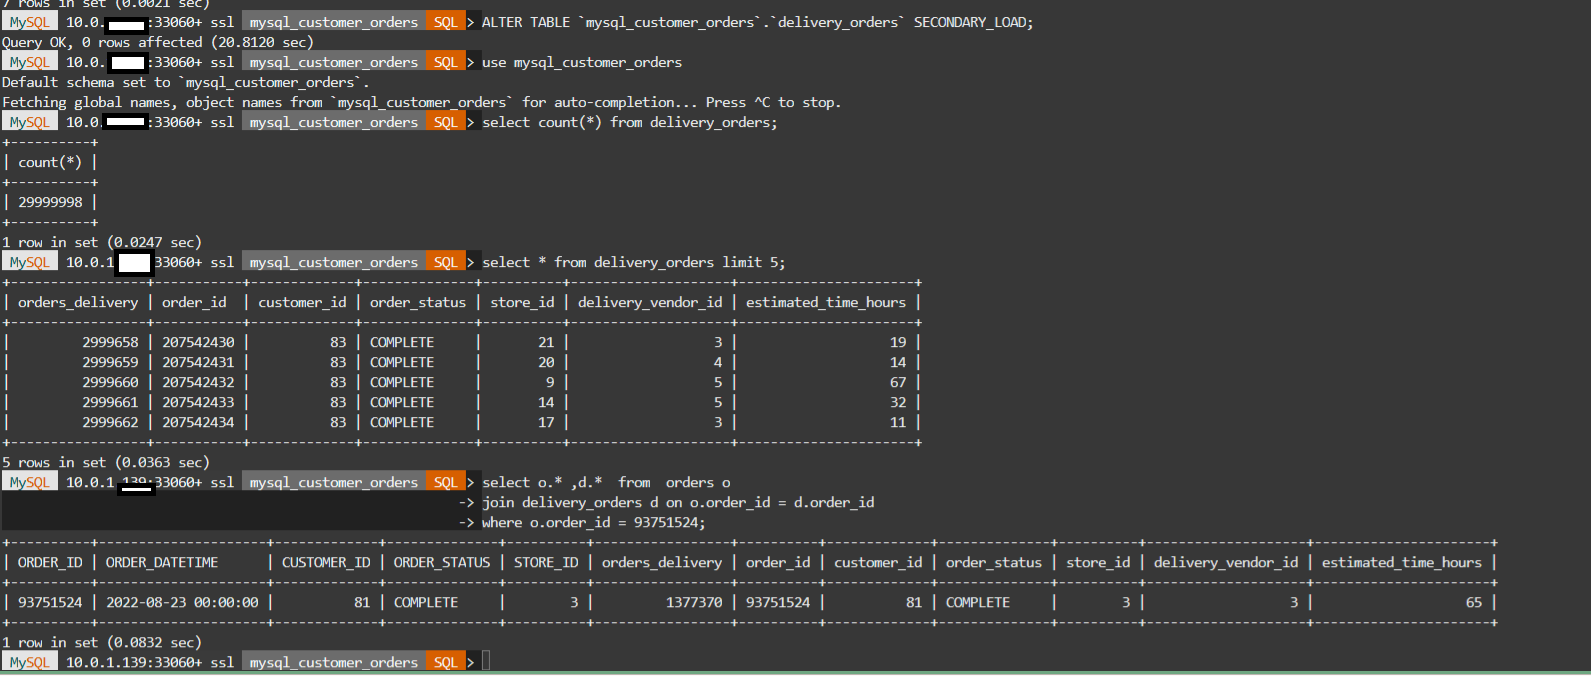
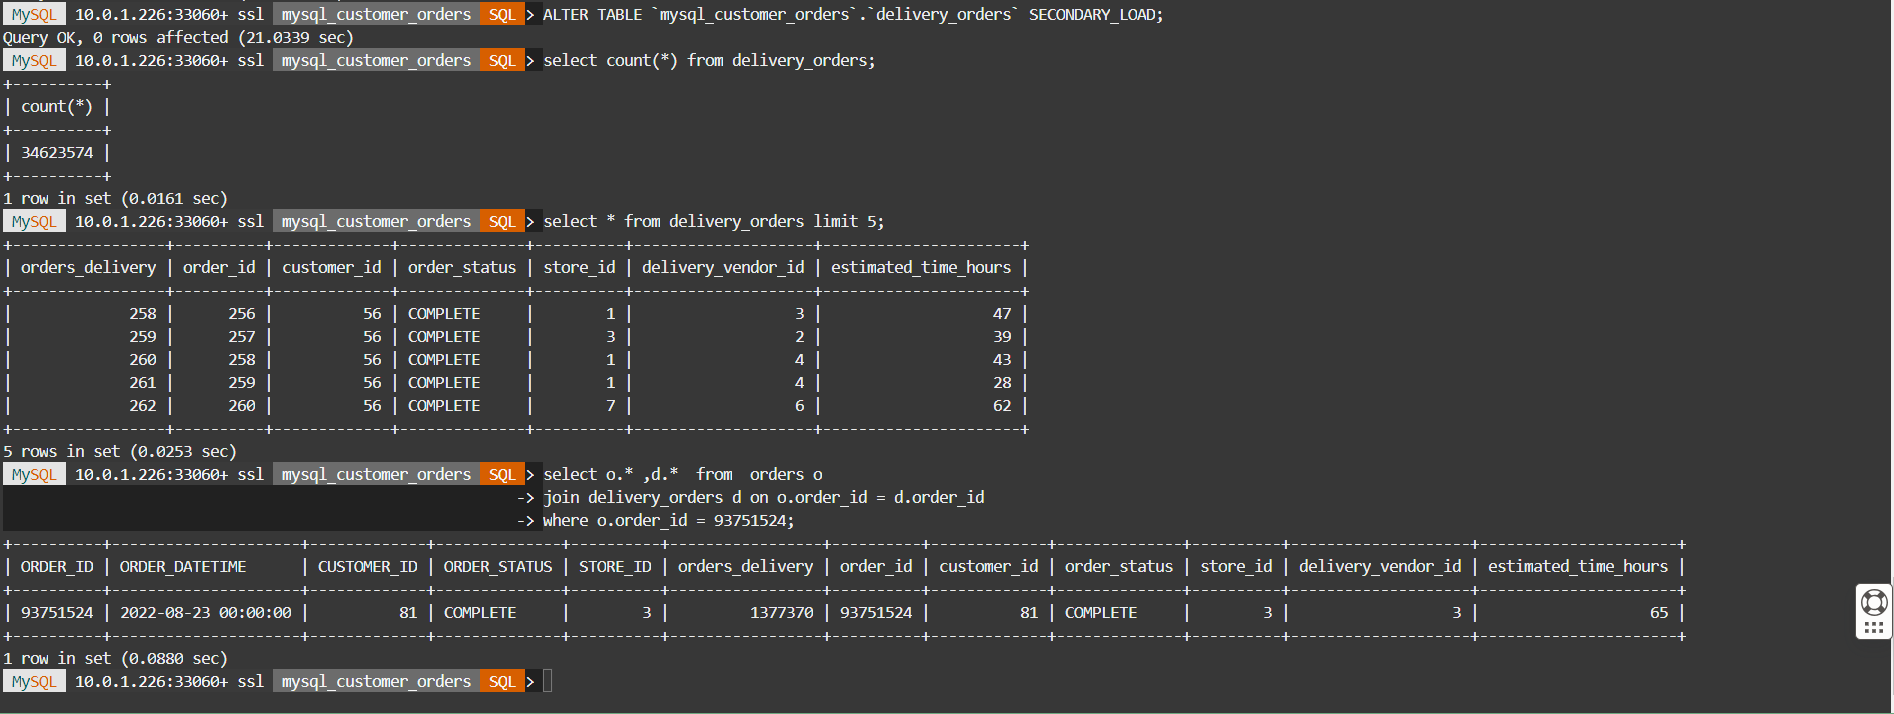
updated
updated

diff --git a/workshops/freetier/index.html b/workshops/freetier/index.html
@@ -8,12 +8,12 @@
     <meta name="description" content="Oracle LiveLabs gives you access to Oracle's products to run a wide variety of labs and workshops; allowing you to experience our best technology, live!">
     <title>Oracle LiveLabs</title>
 
-    <script src="https://oracle.github.io/learning-library/common/redwood-hol/js/jquery-1.11.0.min.js"></script>
-    <script src="https://oracle.github.io/learning-library/common/redwood-hol/js/jquery-ui-1.10.4.custom.js"></script>
-    <script src="https://oracle.github.io/learning-library/common/redwood-hol/js/main.min.js"></script>
+    <script src="https://oracle-livelabs.github.io/common/redwood-hol/js/jquery-1.11.0.min.js"></script>
+    <script src="https://oracle-livelabs.github.io/common/redwood-hol/js/jquery-ui-1.10.4.custom.js"></script>
+    <script src="https://oracle-livelabs.github.io/common/redwood-hol/js/main.min.js"></script>
 
-    <link rel="stylesheet" href="https://oracle.github.io/learning-library/common/redwood-hol/css/style.min.css" />
-    <link rel="shortcut icon" href="https://oracle.github.io/learning-library/common/redwood-hol/img/favicon.ico" />
+    <link rel="stylesheet" href="https://oracle-livelabs.github.io/common/redwood-hol/css/style.min.css" />
+    <link rel="shortcut icon" href="https://oracle-livelabs.github.io/common/redwood-hol/img/favicon.ico" />
 </head>
 
 <body>
@@ -58,5 +58,4 @@
       </div>
     </footer>
 </body>
-
 </html>

diff --git a/workshops/ocw23-freetier/index.html b/workshops/ocw23-freetier/index.html
@@ -8,12 +8,12 @@
     <meta name="description" content="Oracle LiveLabs gives you access to Oracle's products to run a wide variety of labs and workshops; allowing you to experience our best technology, live!">
     <title>Oracle LiveLabs</title>
 
-    <script src="https://oracle.github.io/learning-library/common/redwood-hol/js/jquery-1.11.0.min.js"></script>
-    <script src="https://oracle.github.io/learning-library/common/redwood-hol/js/jquery-ui-1.10.4.custom.js"></script>
-    <script src="https://oracle.github.io/learning-library/common/redwood-hol/js/main.min.js"></script>
+    <script src="https://oracle-livelabs.github.io/common/redwood-hol/js/jquery-1.11.0.min.js"></script>
+    <script src="https://oracle-livelabs.github.io/common/redwood-hol/js/jquery-ui-1.10.4.custom.js"></script>
+    <script src="https://oracle-livelabs.github.io/common/redwood-hol/js/main.min.js"></script>
 
-    <link rel="stylesheet" href="https://oracle.github.io/learning-library/common/redwood-hol/css/style.min.css" />
-    <link rel="shortcut icon" href="https://oracle.github.io/learning-library/common/redwood-hol/img/favicon.ico" />
+    <link rel="stylesheet" href="https://oracle-livelabs.github.io/common/redwood-hol/css/style.min.css" />
+    <link rel="shortcut icon" href="https://oracle-livelabs.github.io/common/redwood-hol/img/favicon.ico" />
 </head>
 
 <body>
@@ -58,5 +58,4 @@
       </div>
     </footer>
 </body>
-
 </html>

diff --git a/load-csv-data/load-csv-data.md b/load-csv-data/load-csv-data.md
@@ -26,27 +26,28 @@ We will now load the DELIVERY_ORDERS table from the Object Store. This is a larg
 
 ## Task 1: Create the PAR Link for the "delivery_order" files
 
-1. To create a PAR URL
-    - Go to menu **Storage —> Buckets**
-     ![Bucket menu](./images/storage-bucket-menu.png "storage bucket menu")
+1. Create a PAR URL for all of the **order folder** objects with a prefix
 
-    - Select **lakehouse-files —> order**  folder.
-2. Select the first file —> **delivery-orders-1.csv** and click the three vertical dots.
-3. Click on **Create Pre-Authenticated Request**
+    - a. From your OCI console, navigate to your lakehouse-files bucket in OCI.
+    - b. Select the folder —> order and click the three vertical dots.
 
-    ![delivery-orders-1.csv 3 dots](./images/storage-create-par-orders.png "storage create par orders")
+        ![Select  folder](./images/storage-delivery-orders-folder.png "storage delivery order folder")
 
-4. The **Object** option will be pre-selected.
-5. Keep **Permit object reads** selected
-6. Kep the other options for **Access Type** unchanged.
-7. Click the **Create Pre-Authenticated Request** button.
+    - c. Click on ‘Create Pre-Authenticated Request’
+    - d. Click to select the ‘Objects with prefix’ option under ‘PreAuthentcated Request Target’.
+    - e. Leave the ‘Access Type’ option as-is: ‘Permit object reads on those with the specified prefix’.
+    - g. Click to select the ‘Enable Object Listing’ checkbox.
+    - h. Click the ‘Create Pre-Authenticated Request’ button.
 
-    ![Create PAR](./images/storage-create-par-orders-page.png "storage create par orders page")
+       ![Create Folder PAR](./images/storage-delivery-orders-folder-page.png "storage delivery order folder page")
 
-8. Click the **Copy** icon to copy the PAR URL.
-    ![Copy PAR](./images/storage-create-par-orders-page-copy.png "storage create par orders page copy")
+    - i. Click the ‘Copy’ icon to copy the PAR URL.
+    - j. Save the generated PAR URL; you will need it later.
+    - k. You can test the URL out by pasting it in your browser. It should return output like this:
 
-9. Save the generated PAR URL; you will need it in the next task
+        ![List folder file](./images/storage-delivery-orders-folder-list.png "storage delivery order folder list")
+
+2. Save the generated PAR URL; you will need it in the next task
 
 ## Task 2: Connect to your MySQL HeatWave system using Cloud Shell
 
@@ -92,7 +93,7 @@ We will now load the DELIVERY_ORDERS table from the Object Store. This is a larg
 
 ## Task 3: Run Autoload to infer the schema and estimate capacity required for the DELIVERY table in the Object Store
 
-1. Part of the DELIVERY information for orders is contained in the delivery-orders-1.csv file in object store for which we have created a PAR URL in the earlier task. In a later task, we will load the other files for the DELIVER_ORDERS table into MySQL HeatWave. Enter the following commands one by one and hit Enter.
+1. The DELIVERY information for orders is contained in the delivery-orders-*1*.csv files in object store for which we have created a PAR URL in the earlier task. Enter the following commands one by one and hit Enter.
 
 2. This sets the schema we will load table data into. Don’t worry if this schema has not been created. Autopilot will generate the commands for you to create this schema if it doesn’t exist.
 
@@ -107,14 +108,16 @@ We will now load the DELIVERY_ORDERS table from the Object Store. This is a larg
     "db_name": "mysql_customer_orders",
     "tables": [{
         "table_name": "delivery_orders",
-        "dialect": 
-           {
-           "format": "csv",
-           "field_delimiter": "\\t",
-           "record_delimiter": "\\n"
-           },
-        "file": [{"par": "(PAR URL)"}]
-    }] }]';</copy>
+        "dialect": {
+            "format": "csv",
+            "field_delimiter": "\\t",
+            "record_delimiter": "\\r\\n",
+            "has_header": true,
+            "is_strict_mode": false},
+            "file": [{"par": "(PAR URL)"}]
+        }
+    ]}
+    ]';</copy>
     ```
 
     - It should look like the following example (Be sure to include the PAR Link inside at of quotes("")):
@@ -124,7 +127,7 @@ We will now load the DELIVERY_ORDERS table from the Object Store. This is a larg
 4. This command populates all the options needed by Autoload:
 
     ```bash
-    <copy>SET @options = JSON_OBJECT('mode', 'dryrun',  'policy', 'disable_unsupported_columns',  'external_tables', CAST(@dl_tables AS JSON));</copy>
+    <copy>SET @options = JSON_OBJECT('mode', 'dryrun', 'policy', 'disable_unsupported_columns', 'external_tables', CAST(@dl_tables AS JSON));</copy>
     ```
 
 5. Run this Autoload command:
@@ -147,7 +150,7 @@ We will now load the DELIVERY_ORDERS table from the Object Store. This is a larg
 
     ![Dryrun script](./images/load-script-dryrun.png "load script dryrun")
 
-8. The execution result conatins the SQL statements needed to create the table and then load this table data from the Object Store into HeatWave.
+8. The execution result contains the SQL statements needed to create the table and then load this table data from the Object Store into HeatWave.
 
     ![Create Table](./images/create-delivery-order.png "create delivery order")
 
@@ -155,23 +158,9 @@ We will now load the DELIVERY_ORDERS table from the Object Store. This is a larg
 
     ![autopilot create table with no field name](./images/create-table-no-fieldname.png "autopilot create table with no field name")
 
-10. Modify the **CREATE TABLE** command to replace the generic column names, such as **col\_1**, with descriptive column names. Use the following values:
+10. Execute the **CREATE TABLE** command to create the delivery_orders table.
 
-    - `col_1 : orders_delivery`
-    - `col_2 : order_id`
-    - `col_3 : customer_id`
-    - `col_4 : order_status`
-    - `col_5 : store_id`
-    - `col_6 : delivery_vendor_id`
-    - `col_7 : estimated_time_hours`
-
-11. Your modified **CREATE TABLE** command  should look like the following example:
-
-    ![autopilot create table with field name](./images/create-table-fieldname.png "autopilot create table with field name")
-
-12. Execute the modified **CREATE TABLE** command to create the delivery_orders table.
-
-13. The create command and result should look lie this
+11. The create command and result should look lie this
 
     ![Delivery Table create](./images/create-delivery-table.png "create delivery table")
 
@@ -191,25 +180,21 @@ We will now load the DELIVERY_ORDERS table from the Object Store. This is a larg
     <copy> ALTER TABLE `mysql_customer_orders`.`delivery_orders` SECONDARY_LOAD; </copy>
     ```
 
-3. Once Autoload completes,point to the schema
-
-    ```bash
-    <copy>use mysql_customer_orders</copy>
-    ```
-
-4. Check the number of rows loaded into the table.
+3. Check the number of rows loaded into the table.
 
     ```bash
     <copy>select count(*) from delivery_orders;</copy>
     ```
 
-5. View a sample of the data in the table.
+    The DELIVERY table has 34 million rows.
+
+4. View a sample of the data in the table.
 
     ```bash
     <copy>select * from delivery_orders limit 5;</copy>
     ```
 
-    a. Join the delivery_orders table with other table in the schema
+5. Join the delivery_orders table with other table in the schema
 
     ```bash
     <copy> select o.* ,d.*  from  orders o
@@ -217,76 +202,10 @@ We will now load the DELIVERY_ORDERS table from the Object Store. This is a larg
     where o.order_id = 93751524; </copy>
     ```
 
-6. Your output for steps 2 thru 5 should look like this:
-
+6. Output of steps 6 through 5
     ![Add data to table](./images/load-delivery-table.png "load delivery table")
 
-7. Your DELIVERY table is now ready to be used in queries with other tables. In the next lab, we will see how to load additional data for the DELIVERY table from the Object Store using different options.
-
-## Task 5:  Load all data for DELIVERY table from Object Store
-
-The DELIVERY table contains data loaded from one file so far. If new data arrives as more files, we can load those files too. The first option is by specifying a list of the files in the table definition. The second option is by specifying a prefix and have all files with that prefix be source files for the DELIVERY table. The third option is by specifying the entire folder in the Object Store to be the source file for the DELIVERY table.
-
-We will use the second option which Loads the data by specifying a PAR URL for all objects with a prefix.
-
-1. First unload the DELIVERY table from HeatWave:
-
-    ```bash
-    <copy>ALTER TABLE delivery_orders SECONDARY_UNLOAD;</copy>
-    ```
-
-2. Create a PAR URL for all objects with a prefix
-
-    - a. From your OCI console, navigate to your lakehouse-files bucket in OCI.
-    - b. Select the folder —> order and click the three vertical dots.
-
-        ![Select  folder](./images/storage-delivery-orders-folder.png "storage delivery order folder")
-
-    - c. Click on ‘Create Pre-Authenticated Request’
-    - d. Click to select the ‘Objects with prefix’ option under ‘PreAuthentcated Request Target’.
-    - e. Leave the ‘Access Type’ option as-is: ‘Permit object reads on those with the specified prefix’.
-    - g. Click to select the ‘Enable Object Listing’ checkbox.
-    - h. Click the ‘Create Pre-Authenticated Request’ button.
-
-       ![Create Folder PAR](./images/storage-delivery-orders-folder-page.png "storage delivery order folder page")
-
-    - i. Click the ‘Copy’ icon to copy the PAR URL.
-    - j. Save the generated PAR URL; you will need it later.
-    - k. You can test the URL out by pasting it in your browser. It should return output like this:
-
-        ![List folder file](./images/storage-delivery-orders-folder-list.png "storage delivery order folder list")
-
-3. Since we have already created the table, we will not run Autopilot again. Instead we will simply go ahead and change the table definition to point it to this new PAR URL as the table source.
-
-4. Copy this command and replace the **(PAR URL)** with the one you saved earlier. It will be the source for the DELIVERY table:
-
-    ```bash
-    <copy>ALTER TABLE `mysql_customer_orders`.`delivery_orders` ENGINE_ATTRIBUTE='{"file": [{"par": "(PAR URL)"}], "dialect": {"format": "csv", "field_delimiter": "\\t", "record_delimiter": "\\n"}}'; </copy>
-    ```
-
-5. Your command  should look like the following example. Now Execute your modified command
-
-    ![autopilot alter table](./images/alter-table.png "autopilot alter table")
-    **Output**
-
-    ![Add data to Table](./images/load-all-delivery-table.png "load all delivery table")
-
-6. Load data into the DELIVERY table:
-
-    ```bash
-    <copy>alter table delivery_orders secondary_load;</copy>
-    ```
-
-7. View the number of rows in the DELIVERY table:
-
-    ```bash
-    <copy>select count(*) from delivery_orders;</copy>
-    ```
-
-    The DELIVERY table now has 34 million rows.
-8. Output of steps 6 and 7
-
-![Add data to tabel](./images/load-final-delivery-table.png "load final delivery table")
+7. Your DELIVERY table is now ready to be used in queries with other tables.
 
 You may now **proceed to the next lab**
 

diff --git a/introduction/introduction.md b/introduction/introduction.md
@@ -12,13 +12,15 @@ HeatWave Lakehouse. The deployment goals are:
 
 1. Walk you through the steps needed to load data from Object Storage to MySQL HeatWave.
 2. Show how MySQL HeatWave Lakehouse enables you to perform analytics on top of your object storage data without having to move data into the MySQL database.
-3. Show how to run queries on data coming from MySQL InnoDB storage loaded into HeatWave and data loaded from object storage into HeatWave—all using standard MySQL syntax and familiar querying commands.
+3. Show how to run queries on data coming from MySQL InnoDB storage loaded into HeatWave and data loaded from object storage into HeatWave all using standard MySQL syntax and familiar querying commands.
 
-_Estimated Workshop Time:_ 1.5 hours +
+_Estimated Time:_ 2 hours
+
+Watch the video below for a quick walk-through of the lab.
+[Analyze Data at Web Scale in Object Store with MySQL HeatWave Lakehouse](videohub:1_sokyn79m)
 
 ### About Product/Technology
 
-#### MySQL HeatWave Lakehouse**
 
 MySQL HeatWave enables users to process and query hundreds of terabytes of data in object storage—in a variety of file formats, such as CSV, Parquet, and Aurora/Redshift export files. The data remains in the object store and customers can query and analyse it with standard SQL syntax. With this capability, MySQL HeatWave provides one service for transaction processing, analytics across data warehouses and data lakes, and machine learning—without the need for complex ETL across cloud services.
 
@@ -53,3 +55,6 @@ You may now **proceed to the next lab**
 
 - **Contributors** - Abhinav Agarwal, Senior Principal Product Manager, Nick Mader, MySQL Global Channel Enablement & Strategy Manager
 - **Last Updated By/Date** - Perside Foster, MySQL Solution Engineering, May 2023
+
+
+[def]: videohub:VideoID

diff --git a/create-lakehouse-files-old/create-lakehouse-files-old.md b/create-lakehouse-files-old/create-lakehouse-files-old.md
@@ -14,7 +14,7 @@ A set of files have been created for you to use in this workshop. You will creat
 
 - An Oracle Trial or Paid Cloud Account
 - Some Experience with MySQL Shell
-- Completed Lab 5
+- Completed Lab 3
 
 ## Task 1: Download and unzip  Sample files
 
@@ -41,19 +41,19 @@ A set of files have been created for you to use in this workshop. You will creat
 3. Download sample files
 
     ```bash
-    <copy>wget https://objectstorage.us-ashburn-1.oraclecloud.com/p/11vOOD1Z73v4baInYk3QlKOOZWb1BMo4gIcogWrO0jS4GQ29yFaQxwW9Jl6ufOFm/n/mysqlpm/b/mysql_customer_orders/o/lakehouse/lakehouse-orders-v3.zip</copy>
+    <copy>wget https://objectstorage.us-ashburn-1.oraclecloud.com/p/nnsIBVX1qztFmyAuwYIsZT2p7Z-tWBcuP9xqPCdND5LzRDIyBHYqv_8a26Z38Kqq/n/mysqlpm/b/plf_mysql_customer_orders/o/lakehouse/lakehouse-order.zip</copy>
      ```
 
-4. Unzip lakehouse-order.zip file which will generate folder data with 4 files
+4. Unzip lakehouse-order.zip file which will generate folder datafiles with 4 files
 
     ```bash
-    <copy>unzip lakehouse-orders-v3.zip</copy>
+    <copy>unzip lakehouse-order.zip</copy>
      ```
 
-5. Go into the lakehouse/data folder and list all of the files
+5. Go into the lakehouse/datafiles folder and list all of the files
 
     ```bash
-    <copy>cd ~/lakehouse/data</copy>
+    <copy>cd ~/lakehouse/datafiles</copy>
     ```
 
     ```bash
@@ -93,10 +93,10 @@ A set of files have been created for you to use in this workshop. You will creat
 
 ## Task 3: Add files into  the Bucket using the saved PAR URL
 
-1. Go into the lakehouse/data folder and list all of the files
+1. Go into the lakehouse/datafiles folder and list all of the files
 
     ```bash
-    <copy>cd ~/lakehouse/data</copy>
+    <copy>cd ~/lakehouse/datafiles</copy>
     ```
 
     ```bash
